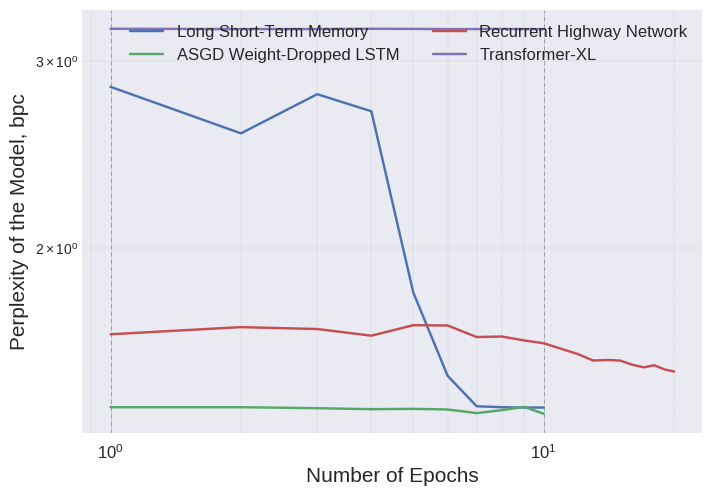
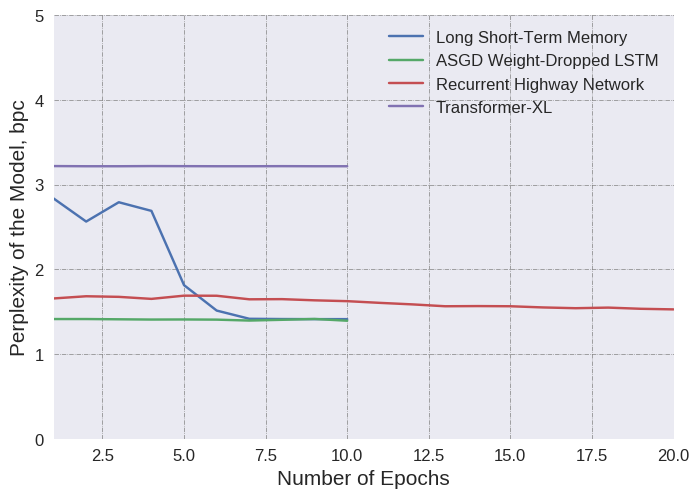
Up

diff --git a/plot_spk_span.py b/plot_spk_span.py
@@ -5,17 +5,17 @@ import matplotlib.pyplot as plt
 import numpy as np
 
 
-# Dataset SP2 20
-y1 = np.array([2.659,2.612,2.601,2.615,1.889,1.598,1.595,1.595,1.594,1.593])
-y2 = np.array([1.923,1.878,1.878,1.831,1.838,1.820,1.795,1.775,1.774,1.775,1.760,1.744,1.733,1.737,1.724,1.706,1.716,1.697,1.697,1.693])
-y3 = np.array([1.624,1.600,1.594,1.606,1.599,1.600,1.593,1.594,1.593,1.593])
-y4 = np.array([3.997,3.995,3.998,3.996,3.996,3.996,3.996,3.996,3.996,3.996])
+# # Dataset SP2 20
+# y1 = np.array([2.659,2.612,2.601,2.615,1.889,1.598,1.595,1.595,1.594,1.593])
+# y2 = np.array([1.923,1.878,1.878,1.831,1.838,1.820,1.795,1.775,1.774,1.775,1.760,1.744,1.733,1.737,1.724,1.706,1.716,1.697,1.697,1.693])
+# y3 = np.array([1.624,1.600,1.594,1.606,1.599,1.600,1.593,1.594,1.593,1.593])
+# y4 = np.array([3.997,3.995,3.998,3.996,3.996,3.996,3.996,3.996,3.996,3.996])
 
-# # Dataset SP2 100
-# y1 = np.array([2.837,2.564,2.792,2.690,1.813,1.513,1.416,1.413,1.412,1.412])
-# y2 = np.array([1.656,1.682,1.675,1.651,1.689,1.688,1.646,1.648,1.634,1.624,1.604,1.586,1.564,1.566,1.564,1.550,1.541,1.548,1.534,1.527])
-# y3 = np.array([1.413,1.413,1.410,1.407,1.408,1.406,1.395,1.404,1.414,1.393])
-# y4 = np.array([3.219,3.217,3.217,3.219,3.218,3.217,3.217,3.218,3.217,3.217])
+# Dataset SP2 100
+y1 = np.array([2.837,2.564,2.792,2.690,1.813,1.513,1.416,1.413,1.412,1.412])
+y2 = np.array([1.656,1.682,1.675,1.651,1.689,1.688,1.646,1.648,1.634,1.624,1.604,1.586,1.564,1.566,1.564,1.550,1.541,1.548,1.534,1.527])
+y3 = np.array([1.413,1.413,1.410,1.407,1.408,1.406,1.395,1.404,1.414,1.393])
+y4 = np.array([3.219,3.217,3.217,3.219,3.218,3.217,3.217,3.218,3.217,3.217])
 
 # # Dataset SP2 200
 # y1 = np.array([2.712,2.680,2.694,2.584,1.745,1.479,1.349,1.342,1,341,1.340])
